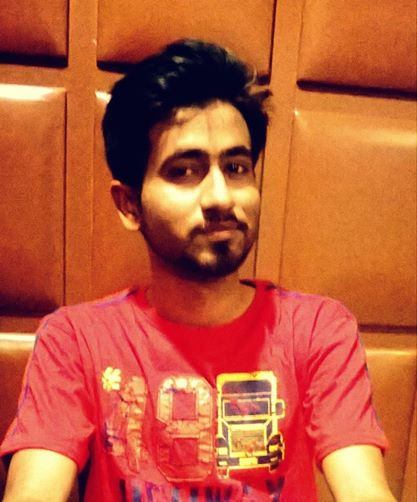
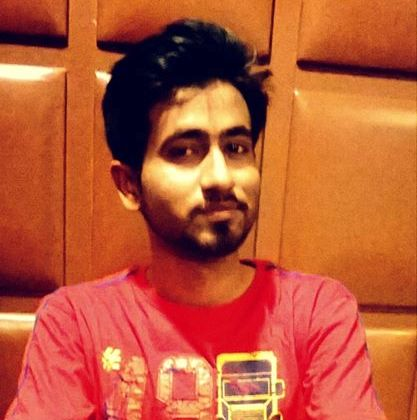
about us

diff --git a/css/styles.less b/css/styles.less
@@ -3,18 +3,39 @@ body{
 	font-family: 'Droid Sans', sans-serif;
 }
 
+.logo{
+	height: 80px;
+	#logo_img{
+		width:170px;
+		height:70px;
+	}
+}
+
+#sidebar{
+	height: 70px;
+}
+
+
+#right_bar{
+	padding:20px 15px;
+	vertical-align: middle;
+	text-align: center;
+	height: 70px;
+}
+
+
 #about_us #member{
-	#img_div{
+	#mem_div{
 		text-align: center;
-		
+		padding: 15px;
 		#member_img{
 			width: 100%;
 			height: 100%;
-			box-shadow: 0px 0px 10px 2px;
+			padding: 10px;
 			img{
+				box-shadow: 0px 0px 10px 2px;
 				width: inherit;
-				height: inherit;
-				padding: 5px;
+				height:inherit;
 			}
 		}
 		
@@ -25,6 +46,7 @@ body{
 		}
 		
 		#member_name{
+			padding-top: 10px;
 			font-size: x-large;
 			font-weight: 600;
 			text-align: center;
@@ -83,11 +105,12 @@ body{
 
 #footer_line{
 	text-align: center;
-	font-size: 20px;
+	font-size: 14px;
+	margin-bottom: 0px; 
 }
 
-#signature:after{
-	content: "Created by siddhesh gore";
+body:after{
+	content: "Created by Ganesh gore";
 	position: fixed;
 	bottom: 0;
 	right: 0;

diff --git a/js/about.js b/js/about.js
@@ -5,7 +5,7 @@ $('document').ready(function(){
         for (i=1; i<=Object.keys(result).length; i++) {
             //alert(Object.keys(result[i]));
             schema ='';
-            schema +="<div class='col-md-3' id='img_div'>";
+            schema +="<div class='col-md-3' id='mem_div'>";
             schema +="<div id='member_img'>";
             schema +="<img src='"+result[i]['Image']+"'>";
             schema +="</div>";

diff --git a/header.php b/header.php
@@ -4,7 +4,7 @@
           <img src="<?php echo LOGO;?>" width="170px" height="70px">
         </a>
         <!-- Header Navbar -->
-        <nav class="navbar navbar-static-top" role="navigation">
+        <nav  id='sidebar' class="navbar navbar-static-top" role="navigation">
           <!-- Sidebar toggle button-->
           <a href="#" class="sidebar-toggle" data-toggle="offcanvas" role="button" style='height: inherit'>
             <span class="sr-only">Toggle navigation</span>
@@ -111,7 +111,7 @@
               <!-- User Account Menu -->
               <li class="dropdown user user-menu">
                 <!-- Menu Toggle Button -->
-                <a href="#" class="dropdown-toggle" data-toggle="dropdown">
+                <a href="#"  id='right_bar'class="dropdown-toggle" data-toggle="dropdown">
                   <!-- The user image in the navbar-->
                   <img src="<?php echo $profile;?>" class="user-image" alt="User Image" id='user_profile'/>
                   

diff --git a/exam.php b/exam.php
@@ -33,7 +33,7 @@ scratch. This page gets rid of all links and provides the needed markup only.
   
   -->
   <body class="skin-blue">
-    <script src="js/exam.js"></script>
+    
     
     <div class="wrapper">
 
@@ -155,6 +155,8 @@ scratch. This page gets rid of all links and provides the needed markup only.
     <!-- REQUIRED JS SCRIPTS -->
     
     <!-- jQuery 2.1.3 -->
+    <script src="js/exam.js"></script><!--custom js script-->
+    
     <script src="plugins/jQuery/jQuery-2.1.3.min.js"></script>
     <!-- Bootstrap 3.3.2 JS -->
     <script src="bootstrap/js/bootstrap.min.js" type="text/javascript"></script>

diff --git a/php/configuration.php b/php/configuration.php
@@ -9,11 +9,7 @@ define("USERNAME","root");
 define("PASSWORD","28263506");
 define("MAIN_DATABASE","acadspace");
 define("SAMPLE_DATABASE","acadspace");
-$host = 'localhost';
-$admin='root';
-$pass='28263506';
-$database ='acadspace';
-$sample_data= 'acadspace';
+
 
 $first_table ='level0';
 $form_table = 'form_field';

diff --git a/footer.php b/footer.php
@@ -9,4 +9,4 @@
         </div-->
         <!-- Default to the left --> 
         <p id='footer_line'><strong>Copyright &copy; 2015 <a href="#">Acadspace</a>.</strong> All rights reserved.</p>
-        <span id='signature'></span>
+        
